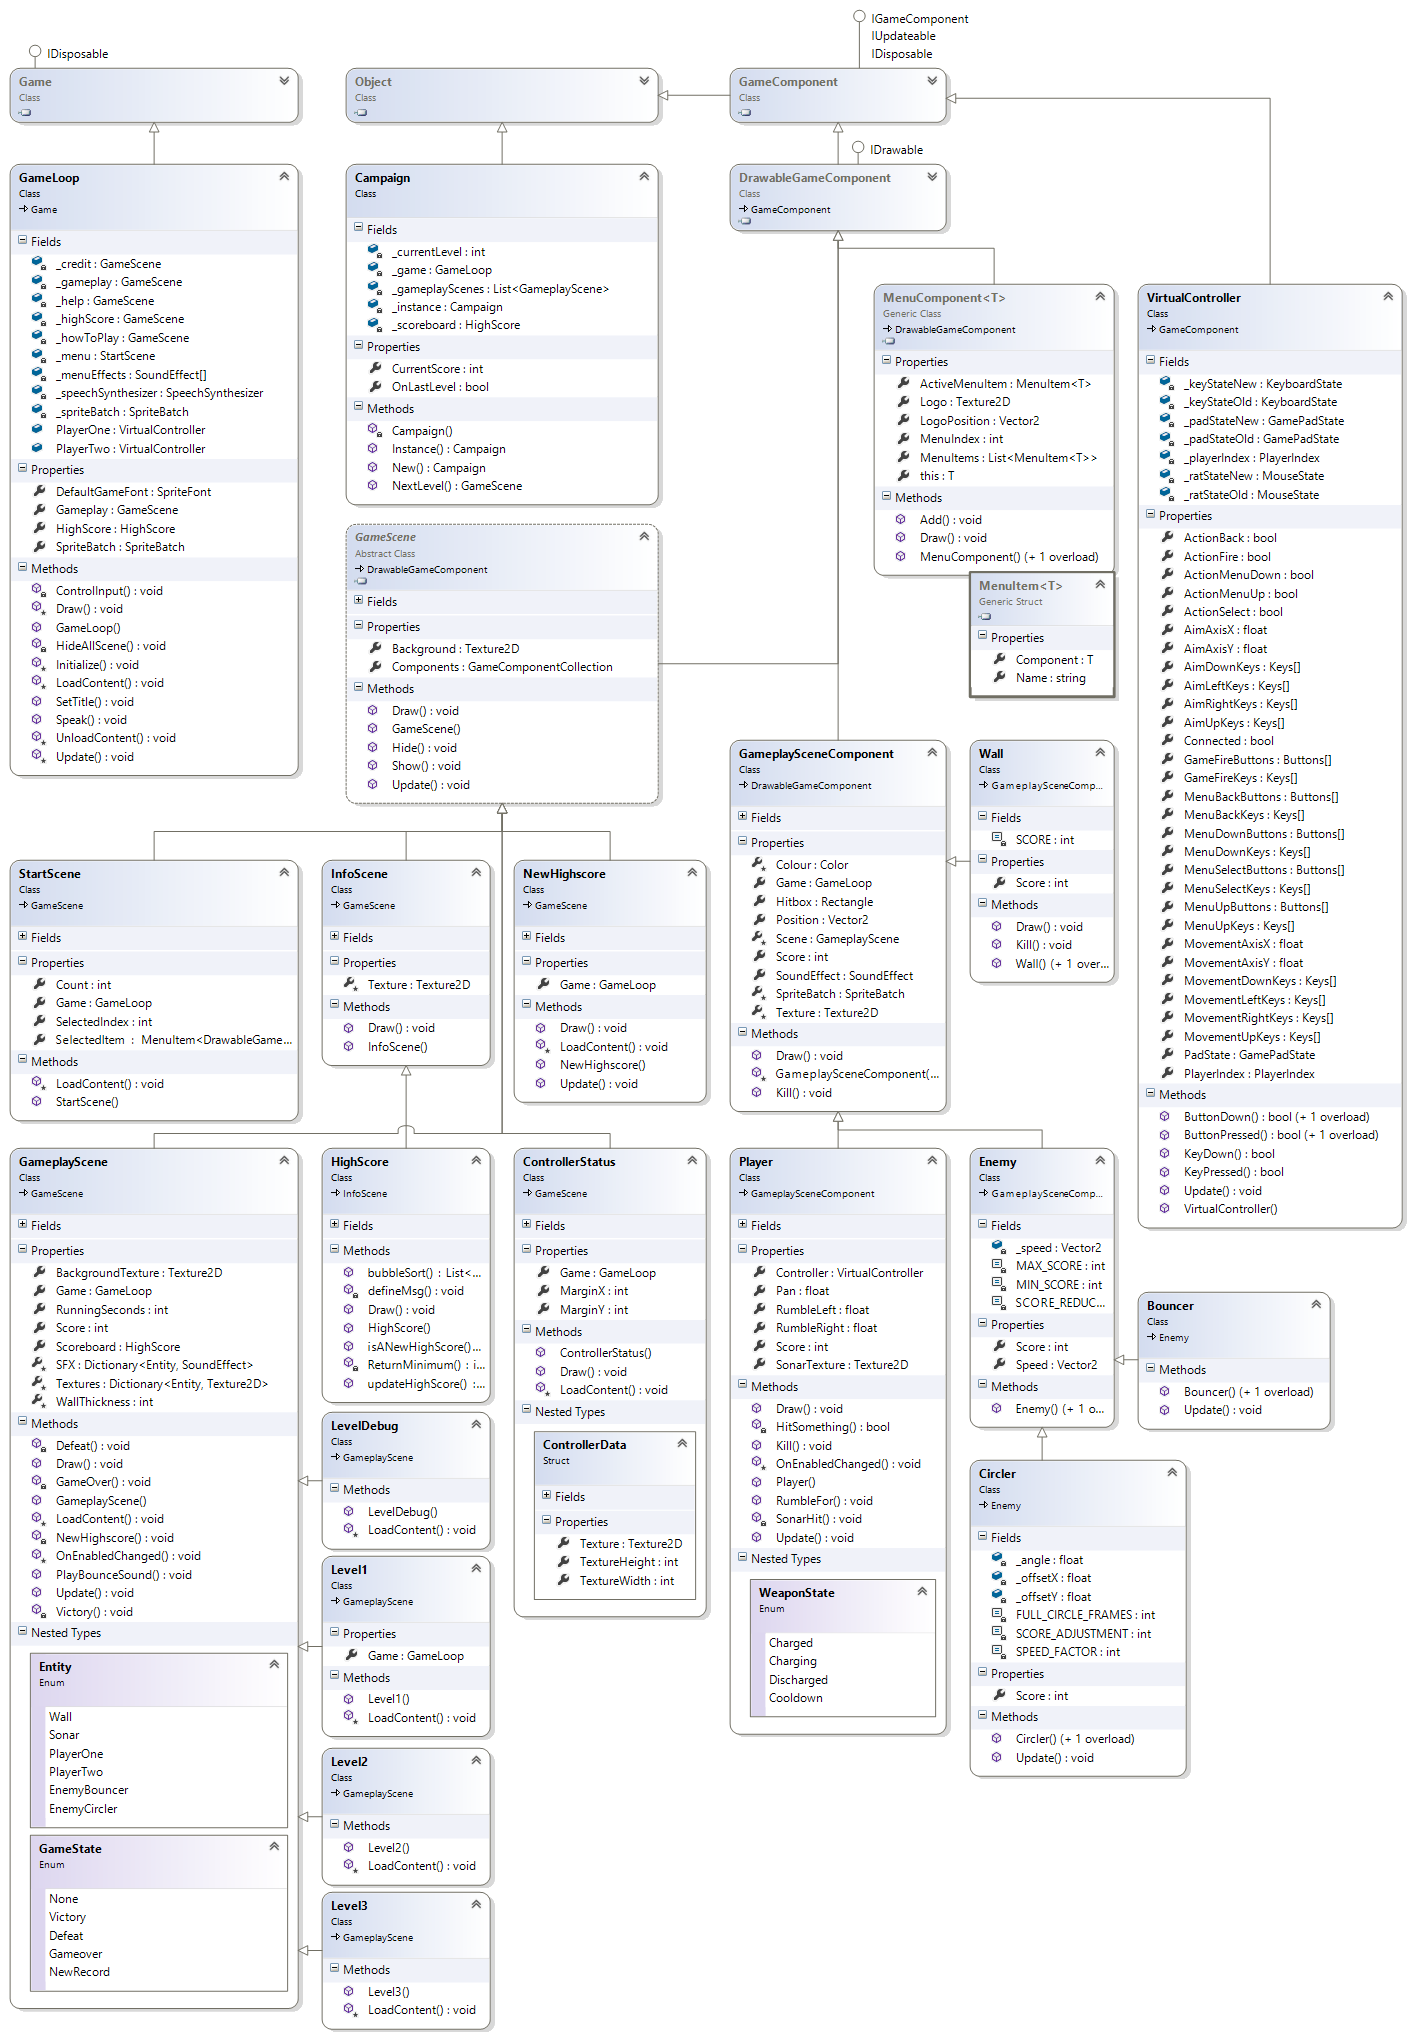
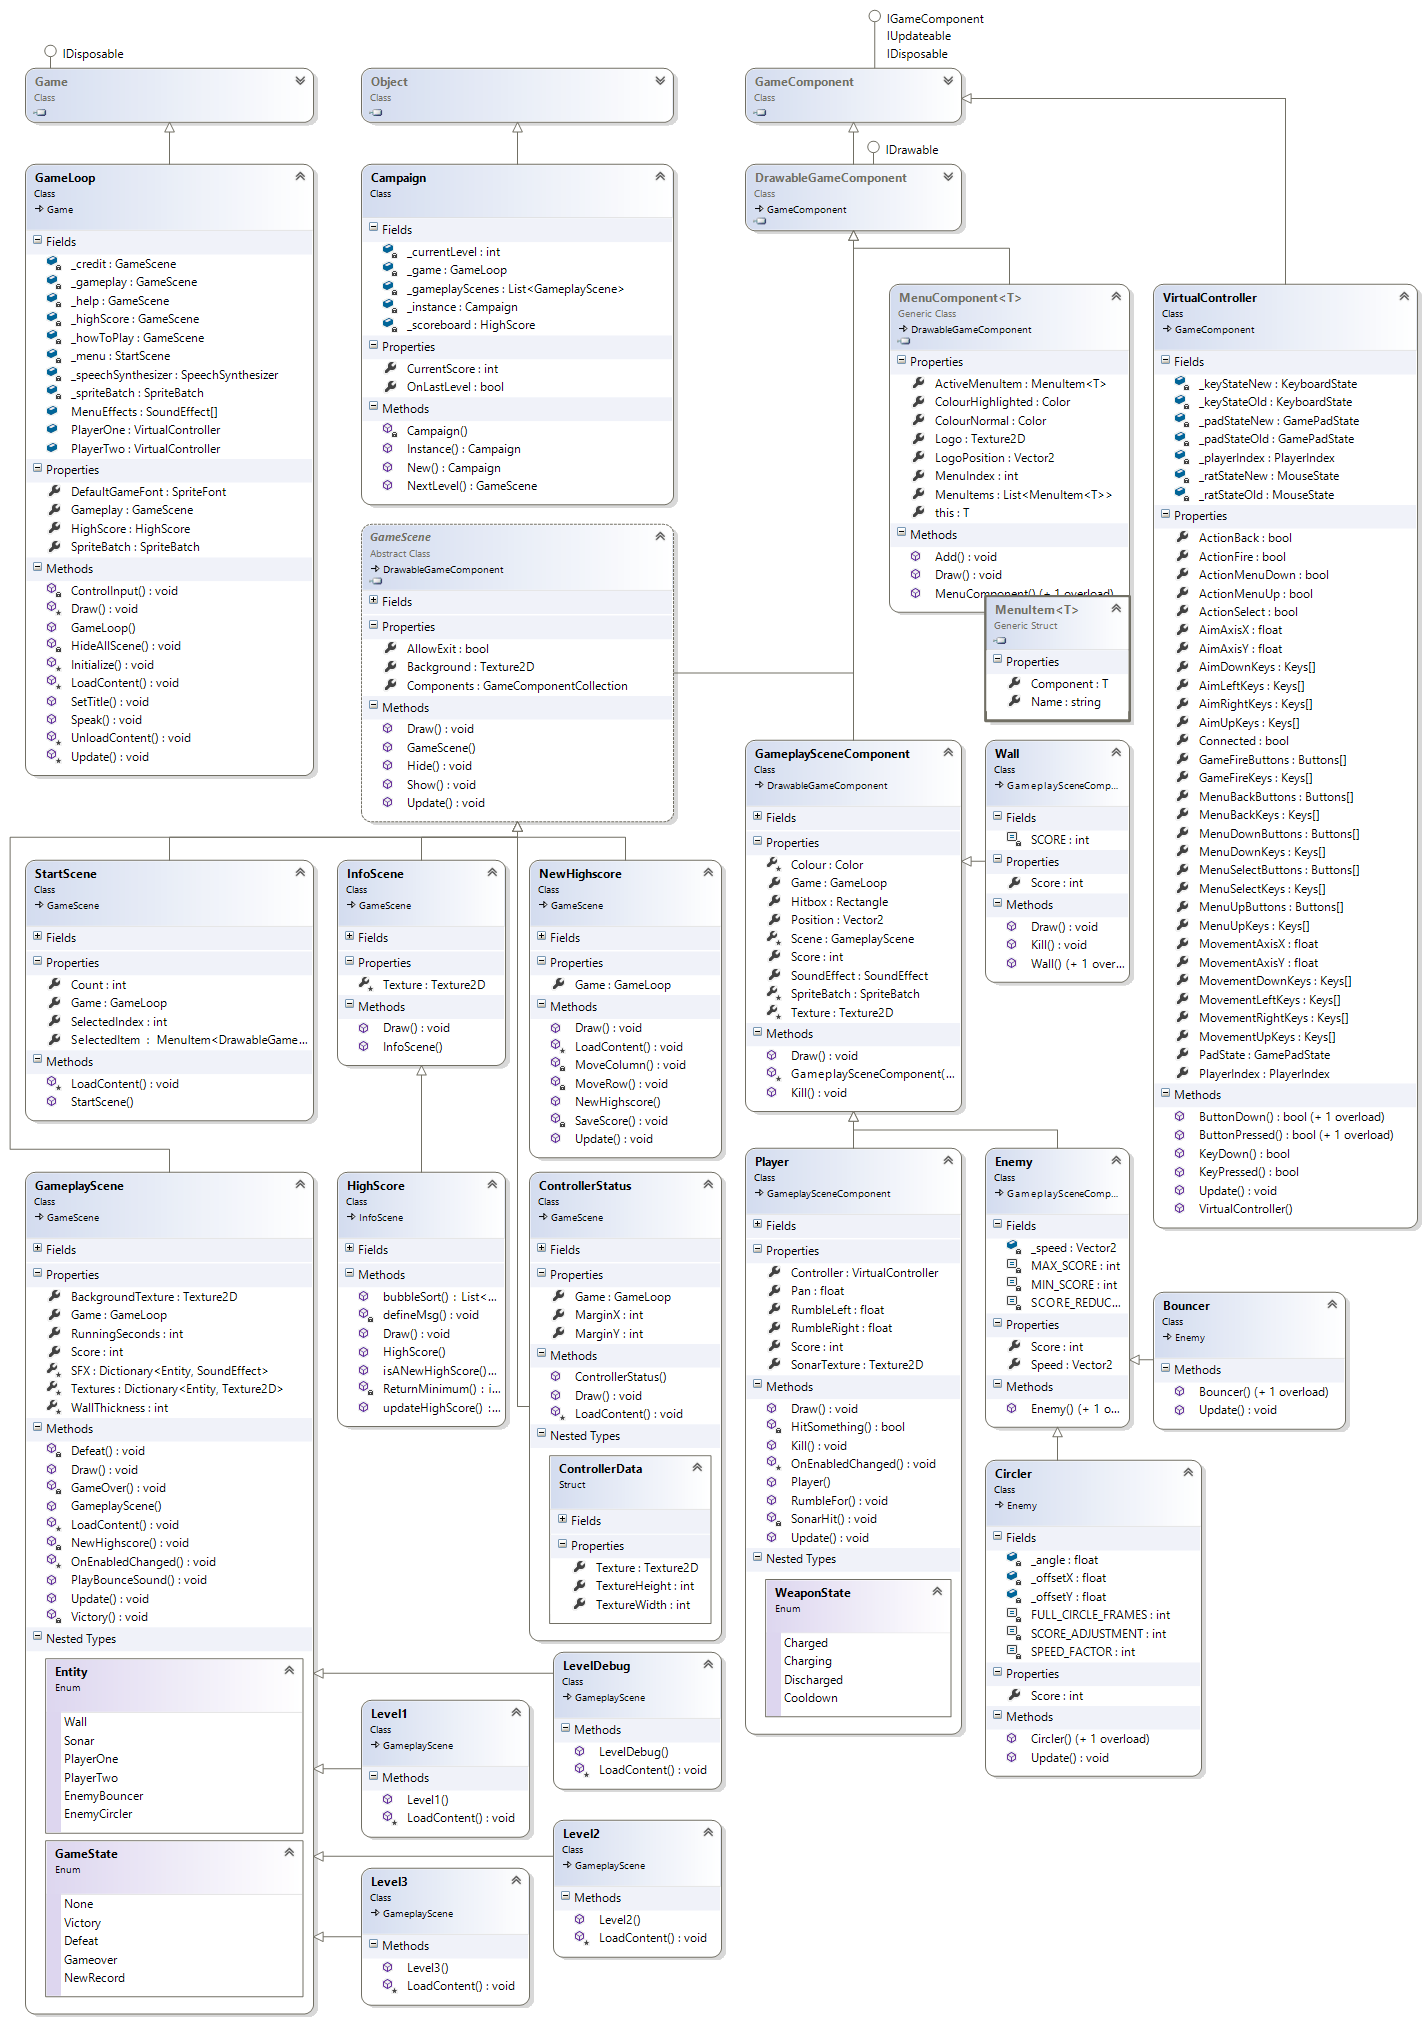
Saving score works to a point. Improvments incoming.

diff --git a/SoundScape/SoundScape/NewHighscore.cs b/SoundScape/SoundScape/NewHighscore.cs
@@ -1,4 +1,7 @@
-using System.Collections.Generic;
+using System;
+using System.Collections.Generic;
+using System.Linq;
+using System.Text;
 using Microsoft.Xna.Framework;
 using Microsoft.Xna.Framework.Graphics;
 using SoundScape.Levels;
@@ -10,16 +13,21 @@ namespace SoundScape
     class NewHighscore : GameScene
     {
         private Color _regularColour;
-        private Color _highlightColor;
+        private Color _highlightColumn;
+        private Color _highlightChar;
         private SpriteFont _font;
         const int MAX_LETTERS = 15;
         private MenuComponent<char>[] _letterMenuComponents;
+        private int _activePosition;
 
         public NewHighscore(GameLoop game, SpriteBatch sb) : base(game, sb)
         {
             _font = game.DefaultGameFont;
             _regularColour = Color.WhiteSmoke;
-            _highlightColor = Color.MediumVioletRed;
+            _highlightColumn = Color.MediumVioletRed;
+            _highlightChar = Color.Yellow;
+            _activePosition = 0;
+            AllowExit = false;
         }
 
         public new GameLoop Game
@@ -30,28 +38,74 @@ namespace SoundScape
         protected override void LoadContent()
         {
             _letterMenuComponents = new MenuComponent<char>[MAX_LETTERS];
+            var alphabit = new char[26];
+            {
+                for (int i = 0; i < alphabit.Length; i++)
+                {
+                    alphabit[i] = (char)('A' + i);
+                }   
+            }
+
             Vector2 startingPos = Vector2.One*100;
             for (int i = 0; i < MAX_LETTERS; i++)
             {
-                _letterMenuComponents[i] = new MenuComponent<char>(Game, _spritebatch, _regularColour, _highlightColor, _font, _font,
-                    startingPos + Vector2.UnitX * 75 * i) { Logo = Game.Content.Load<Texture2D>("logo"), LogoPosition = Vector2.Zero };
-                _letterMenuComponents[i].Add(" ", ' ');
-                for (char c = 'A'; c < 'Z'; c++)
+                _letterMenuComponents[i] = new MenuComponent<char>(Game, _spritebatch, _regularColour, _highlightColumn, _font, _font,
+                    startingPos + Vector2.UnitX * 75 * i)
                 {
-                    _letterMenuComponents[i].Add(c.ToString(), c);
-                }
+                    ColourHighlighted = _highlightColumn,
+                    ColourNormal = _regularColour,
+                };
+                _letterMenuComponents[i].Add(" ", ' ');
+                alphabit.ForEach(c => _letterMenuComponents[i].Add(c.ToString(), c));
+                alphabit.ForEach(c => _letterMenuComponents[i].Add(c.ToString(), c));
+                alphabit.ForEach(c => _letterMenuComponents[i].Add(c.ToString(), c));
+
                 Components.Add(_letterMenuComponents[i]);
             }
+            _letterMenuComponents.First().ColourNormal = _highlightColumn;
+            _letterMenuComponents.First().ColourHighlighted = _highlightChar;
             base.LoadContent();
         }
 
         public override void Update(GameTime gameTime)
         {
+            var inputs = new[] { Game.PlayerOne, Game.PlayerTwo };
+            if (inputs.Any(p => p.ActionSelect))
+                MoveColumn(1);
+            if (inputs.Any(p => p.ActionBack))
+                MoveColumn(-1);
+            if (inputs.Any(p => p.ActionMenuDown))
+                MoveRow(1);
+            if (inputs.Any(p => p.ActionMenuUp))
+                MoveRow(-1);
             base.Update(gameTime);
-            if (Game.PlayerOne.ActionSelect || Game.PlayerTwo.ActionSelect)
+        }
+
+        private void MoveColumn(int i)
+        {
+            Game.MenuEffects[1].Play();
+            _activePosition += i;
+            if (_activePosition >= _letterMenuComponents.Length || _activePosition < 0 ||
+                (i > 0 && _letterMenuComponents[_activePosition - i].ActiveMenuItem.Component == ' '))
             {
-                
+                SaveScore();
             }
+            else
+            {
+                MenuComponent<char> active = _letterMenuComponents[_activePosition];
+                active.ColourNormal = _highlightColumn;
+                active.ColourHighlighted = _highlightChar;
+                _letterMenuComponents.Where(m => m != active).ForEach(m => m.ColourNormal = _regularColour);
+            }
+        }
+
+        private void MoveRow(int i)
+        {
+            Game.MenuEffects[0].Play();
+            var active = _letterMenuComponents[_activePosition];
+            active.MenuIndex = active.MenuIndex + i;
+            active.MenuIndex = Math.Max(0, active.MenuIndex);
+            active.MenuIndex = Math.Min(MAX_LETTERS, active.MenuIndex);
         }
 
         public override void Draw(GameTime gameTime)
@@ -69,6 +123,29 @@ namespace SoundScape
                 _spritebatch.DrawString(font, string.Format(s, Campaign.CurrentScore), adjustedVector2, _regularColour);                
             }
             _spritebatch.End();
+        }
+
+        private void SaveScore()
+        {
+            StringBuilder name = new StringBuilder(MAX_LETTERS);
+            _letterMenuComponents.ForEach(l => name.Append(l.ActiveMenuItem.Component));
+
+            Game.HighScore.updateHighScore(name.ToString().Trim(), Campaign.CurrentScore);
+            Campaign.New(); // Reset the score
+            AllowExit = true;
+            Game.HighScore.Show();
+            Hide();
+        }
+    }
+
+    internal static class Toolbox
+    {
+        public static void ForEach<T>(this IEnumerable<T> value, Action<T> action)
+        {
+            foreach (T item in value)
+            {
+                action(item);
+            }
         }
     }
 }

diff --git a/SoundScape/SoundScape/GameLoop.cs b/SoundScape/SoundScape/GameLoop.cs
@@ -25,7 +25,7 @@ namespace SoundScape
     /// </summary>
     public class GameLoop : Game
     {
-        private SoundEffect[] _menuEffects; 
+        public SoundEffect[] MenuEffects; 
         private SpriteBatch _spriteBatch;
         private SpeechSynthesizer _speechSynthesizer;
 
@@ -143,7 +143,7 @@ namespace SoundScape
             // Create a new SpriteBatch, which can be used to draw textures.
             _spriteBatch = new SpriteBatch(GraphicsDevice);
 
-            _menuEffects = new[]
+            MenuEffects = new[]
             {
                 Content.Load<SoundEffect>("sounds/Beep2"),
                 Content.Load<SoundEffect>("sounds/Beep4"),
@@ -213,13 +213,18 @@ namespace SoundScape
         /// </summary>
         void ControlInput()
         {
+            var inputs = new[] {PlayerOne, PlayerTwo};
             // Allows the game to exit
-            if (PlayerOne.ActionBack || PlayerTwo.ActionBack)
+            if ((_gameplay == null || _gameplay.AllowExit) && inputs.Any(p=>p.ActionBack))
             {
                 if (_menu.Enabled)
+                {
+                    MenuEffects[0].Play();
                     Exit();
+                }
                 else
                 {
+                    MenuEffects[0].Play();
                     HideAllScene();
                     SetTitle();
                     _menu.Show();
@@ -230,7 +235,7 @@ namespace SoundScape
 
             if (_menu.Enabled)
             {
-                if (PlayerOne.ActionSelect || PlayerTwo.ActionSelect)
+                if (inputs.Any(p=>p.ActionSelect))
                 {
                     switch (_menu.SelectedItem.Name)
                     {
@@ -276,18 +281,18 @@ namespace SoundScape
                                 : _menu.SelectedItem.Name);
                             break;
                     }
-                    _menuEffects[1].Play();
+                    MenuEffects[1].Play();
                 }
 
-                if (PlayerOne.ActionMenuDown || PlayerTwo.ActionMenuDown)
+                if (inputs.Any(p=>p.ActionMenuDown))
                 {
                     _menu.SelectedIndex = Math.Min(_menu.SelectedIndex + 1, _menu.Count - 1);
-                    _menuEffects[0].Play();
+                    MenuEffects[0].Play();
                 }
-                else if (PlayerOne.ActionMenuUp || PlayerTwo.ActionMenuUp)
+                else if (inputs.Any(p=>p.ActionMenuUp))
                 {
                     _menu.SelectedIndex = Math.Max(_menu.SelectedIndex - 1, 0);
-                    _menuEffects[0].Play();
+                    MenuEffects[0].Play();
                 }
             }
         }

diff --git a/SoundScape/XnaMenusAndScenes/MenuComponent.cs b/SoundScape/XnaMenusAndScenes/MenuComponent.cs
@@ -6,8 +6,8 @@ namespace XNALib.Menus
 {
     public class MenuComponent<T> : DrawableGameComponent
     {
-        private readonly Color _colourHighlighted;
-        private readonly Color _colourNormal;
+        private Color _colourHighlighted;
+        private Color _colourNormal;
         private readonly SpriteFont _fontHighlighted;
         private readonly SpriteFont _fontNormal;
         private readonly List<MenuItem<T>> _menuItems;
@@ -69,6 +69,18 @@ namespace XNALib.Menus
         {
             get { return _logoPosition; }
             set { _logoPosition = value; }
+        }
+
+        public Color ColourHighlighted
+        {
+            get { return _colourHighlighted; }
+            set { _colourHighlighted = value; }
+        }
+
+        public Color ColourNormal
+        {
+            get { return _colourNormal; }
+            set { _colourNormal = value; }
         }
 
         public T this[int index]

diff --git a/SoundScape/SoundScape/GameplayScene.cs b/SoundScape/SoundScape/GameplayScene.cs
@@ -14,7 +14,6 @@ namespace SoundScape
     {
         private Dictionary<Entity, SoundEffect> _sfx;
         private Dictionary<Entity, Texture2D> _textures;
-        private HighScore _scoreboard;
         private const int WALL_THICKNESS = 100;
         private int _score;
         private DateTime _startTime;
@@ -129,12 +128,6 @@ namespace SoundScape
         {
             get { return _background; }
             set { _background = value; }
-        }
-
-        public HighScore Scoreboard
-        {
-            get { return _scoreboard; }
-            set { _scoreboard = value; }
         }
 
         protected override void LoadContent()

diff --git a/SoundScape/XnaMenusAndScenes/GameScene.cs b/SoundScape/XnaMenusAndScenes/GameScene.cs
@@ -8,6 +8,7 @@ namespace XNALib.Scenes
     {
         protected Texture2D _background;
         protected SpriteBatch _spritebatch;
+        public bool AllowExit { get; protected set; }
 
         public GameComponentCollection Components { get; set; }
 
@@ -33,6 +34,7 @@ namespace XNALib.Scenes
         {
             Components = new GameComponentCollection();
             _spritebatch = spritebatch;
+            AllowExit = true;
             Hide();
         }
 

diff --git a/SoundScape/SoundScape/Levels/Level1.cs b/SoundScape/SoundScape/Levels/Level1.cs
@@ -10,10 +10,6 @@ namespace SoundScape.Levels
 {
     class Level1 : GameplayScene
     {
-        public new GameLoop Game
-        {
-            get { return base.Game as GameLoop; }
-        }
 
         public Level1(GameLoop game, SpriteBatch sb)
             : base(game, sb)
